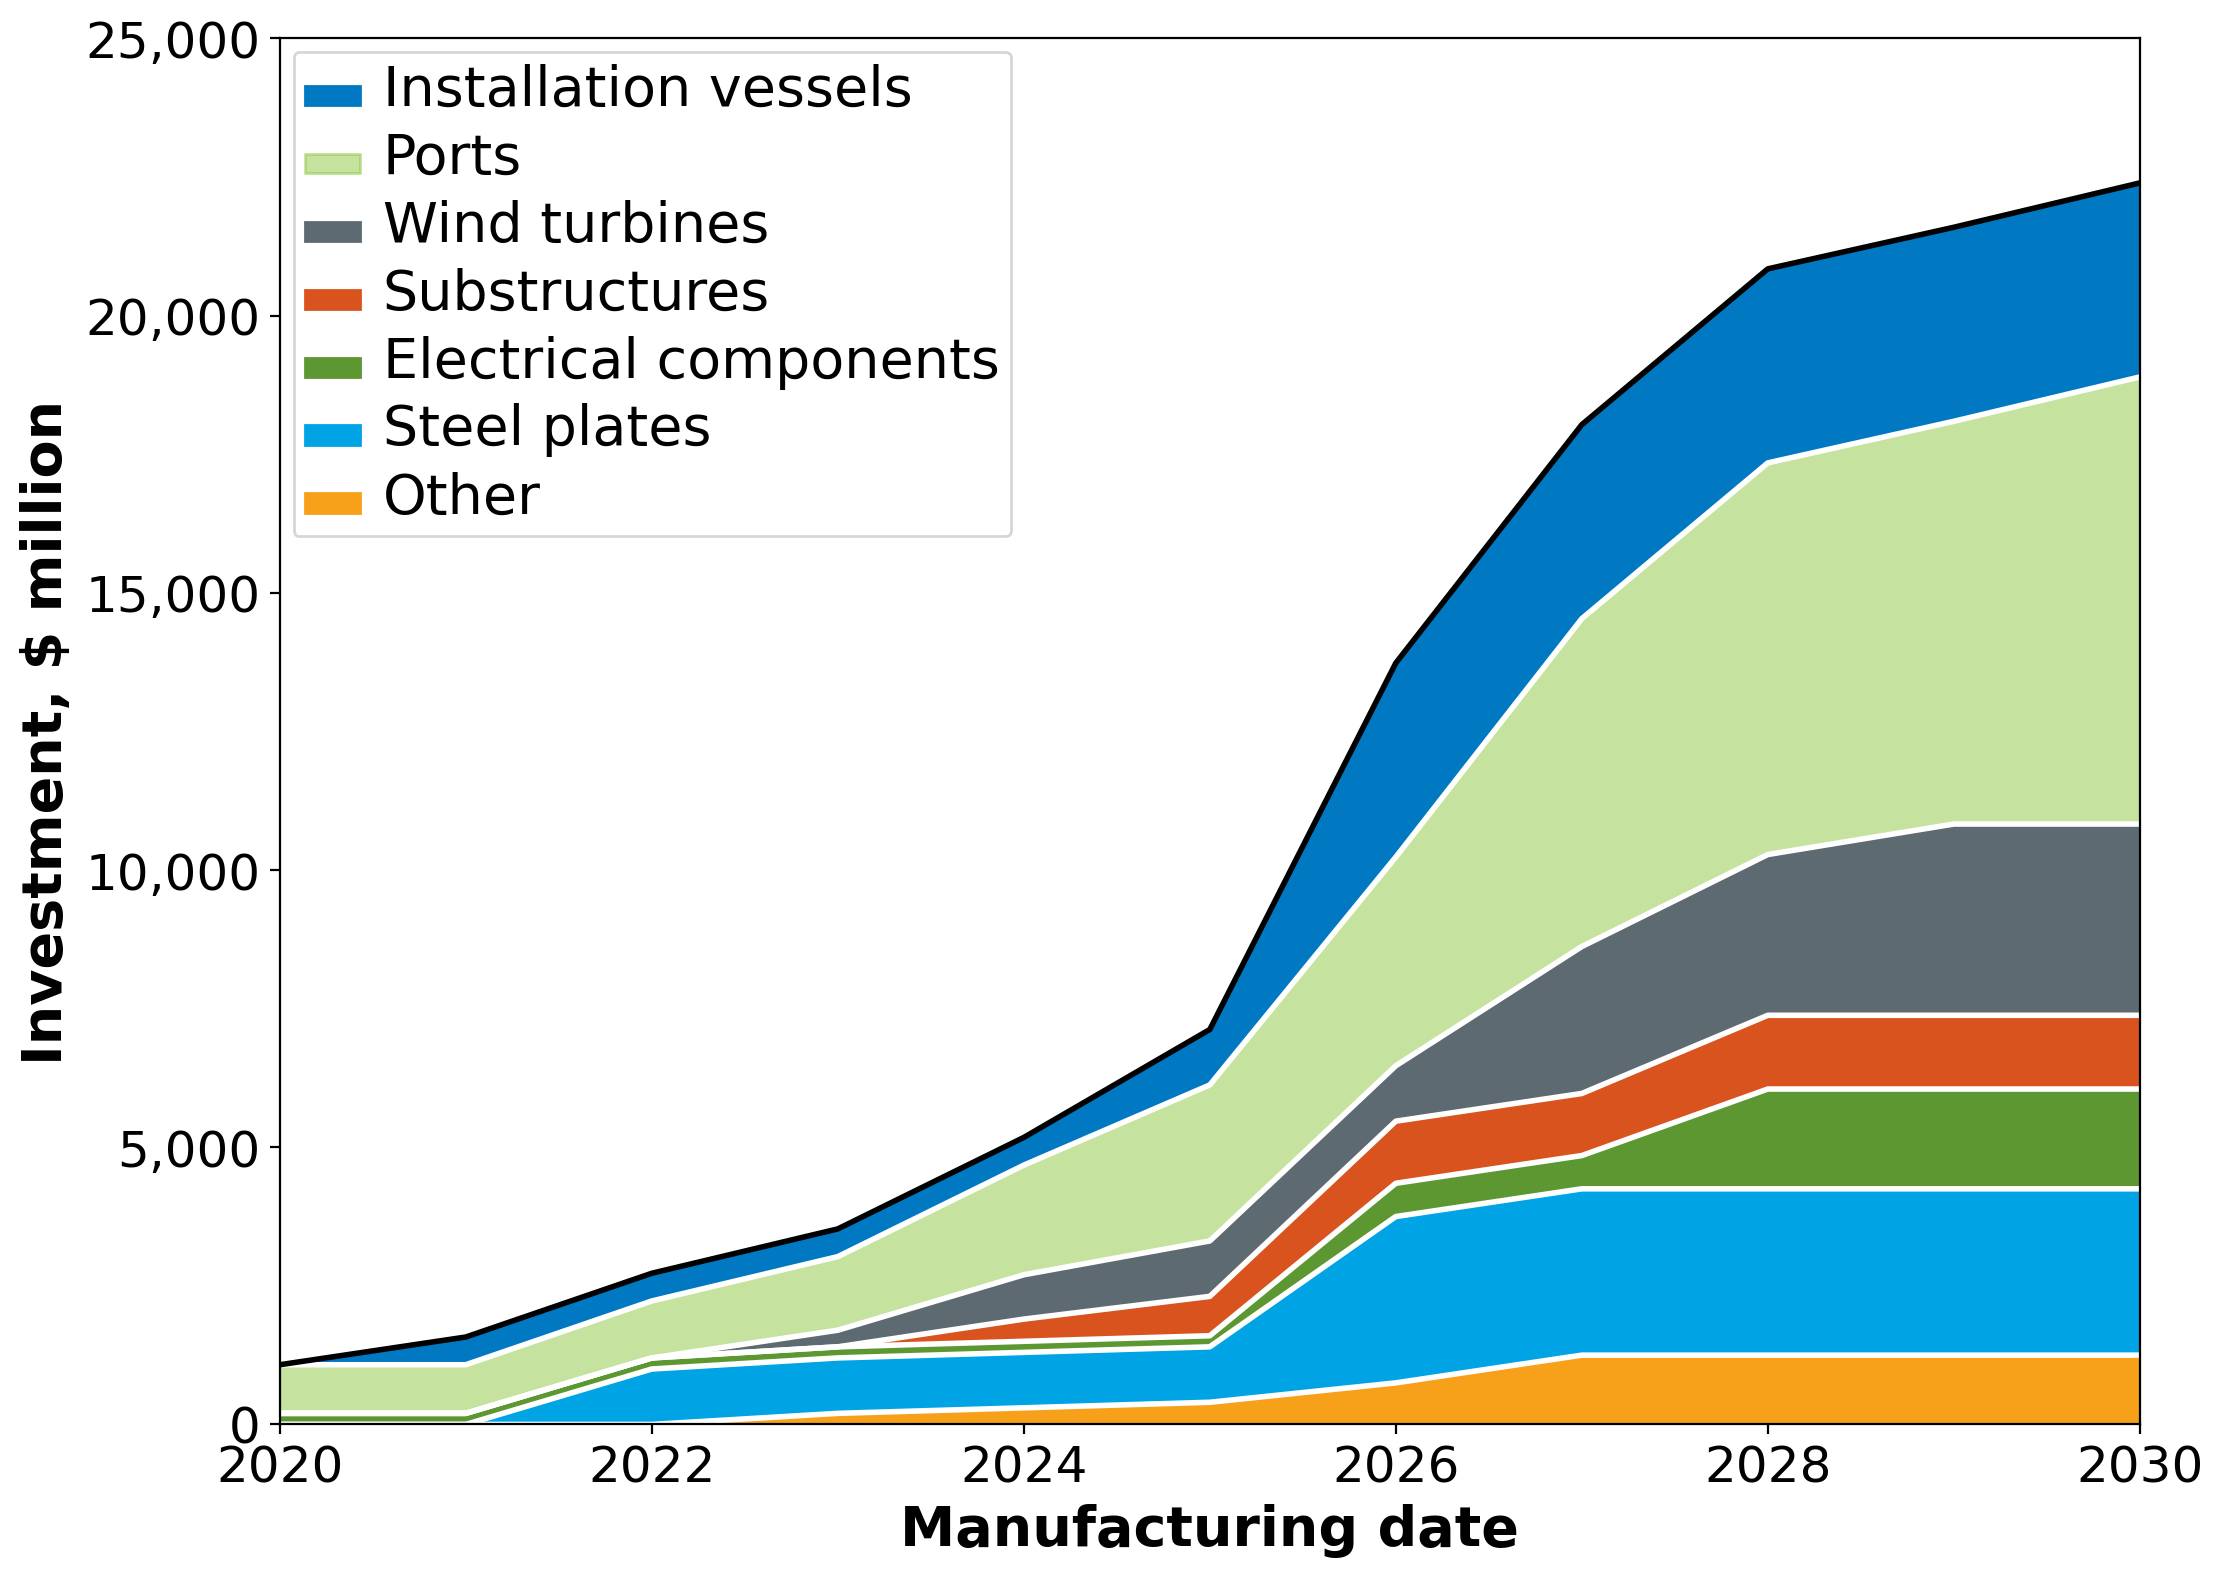
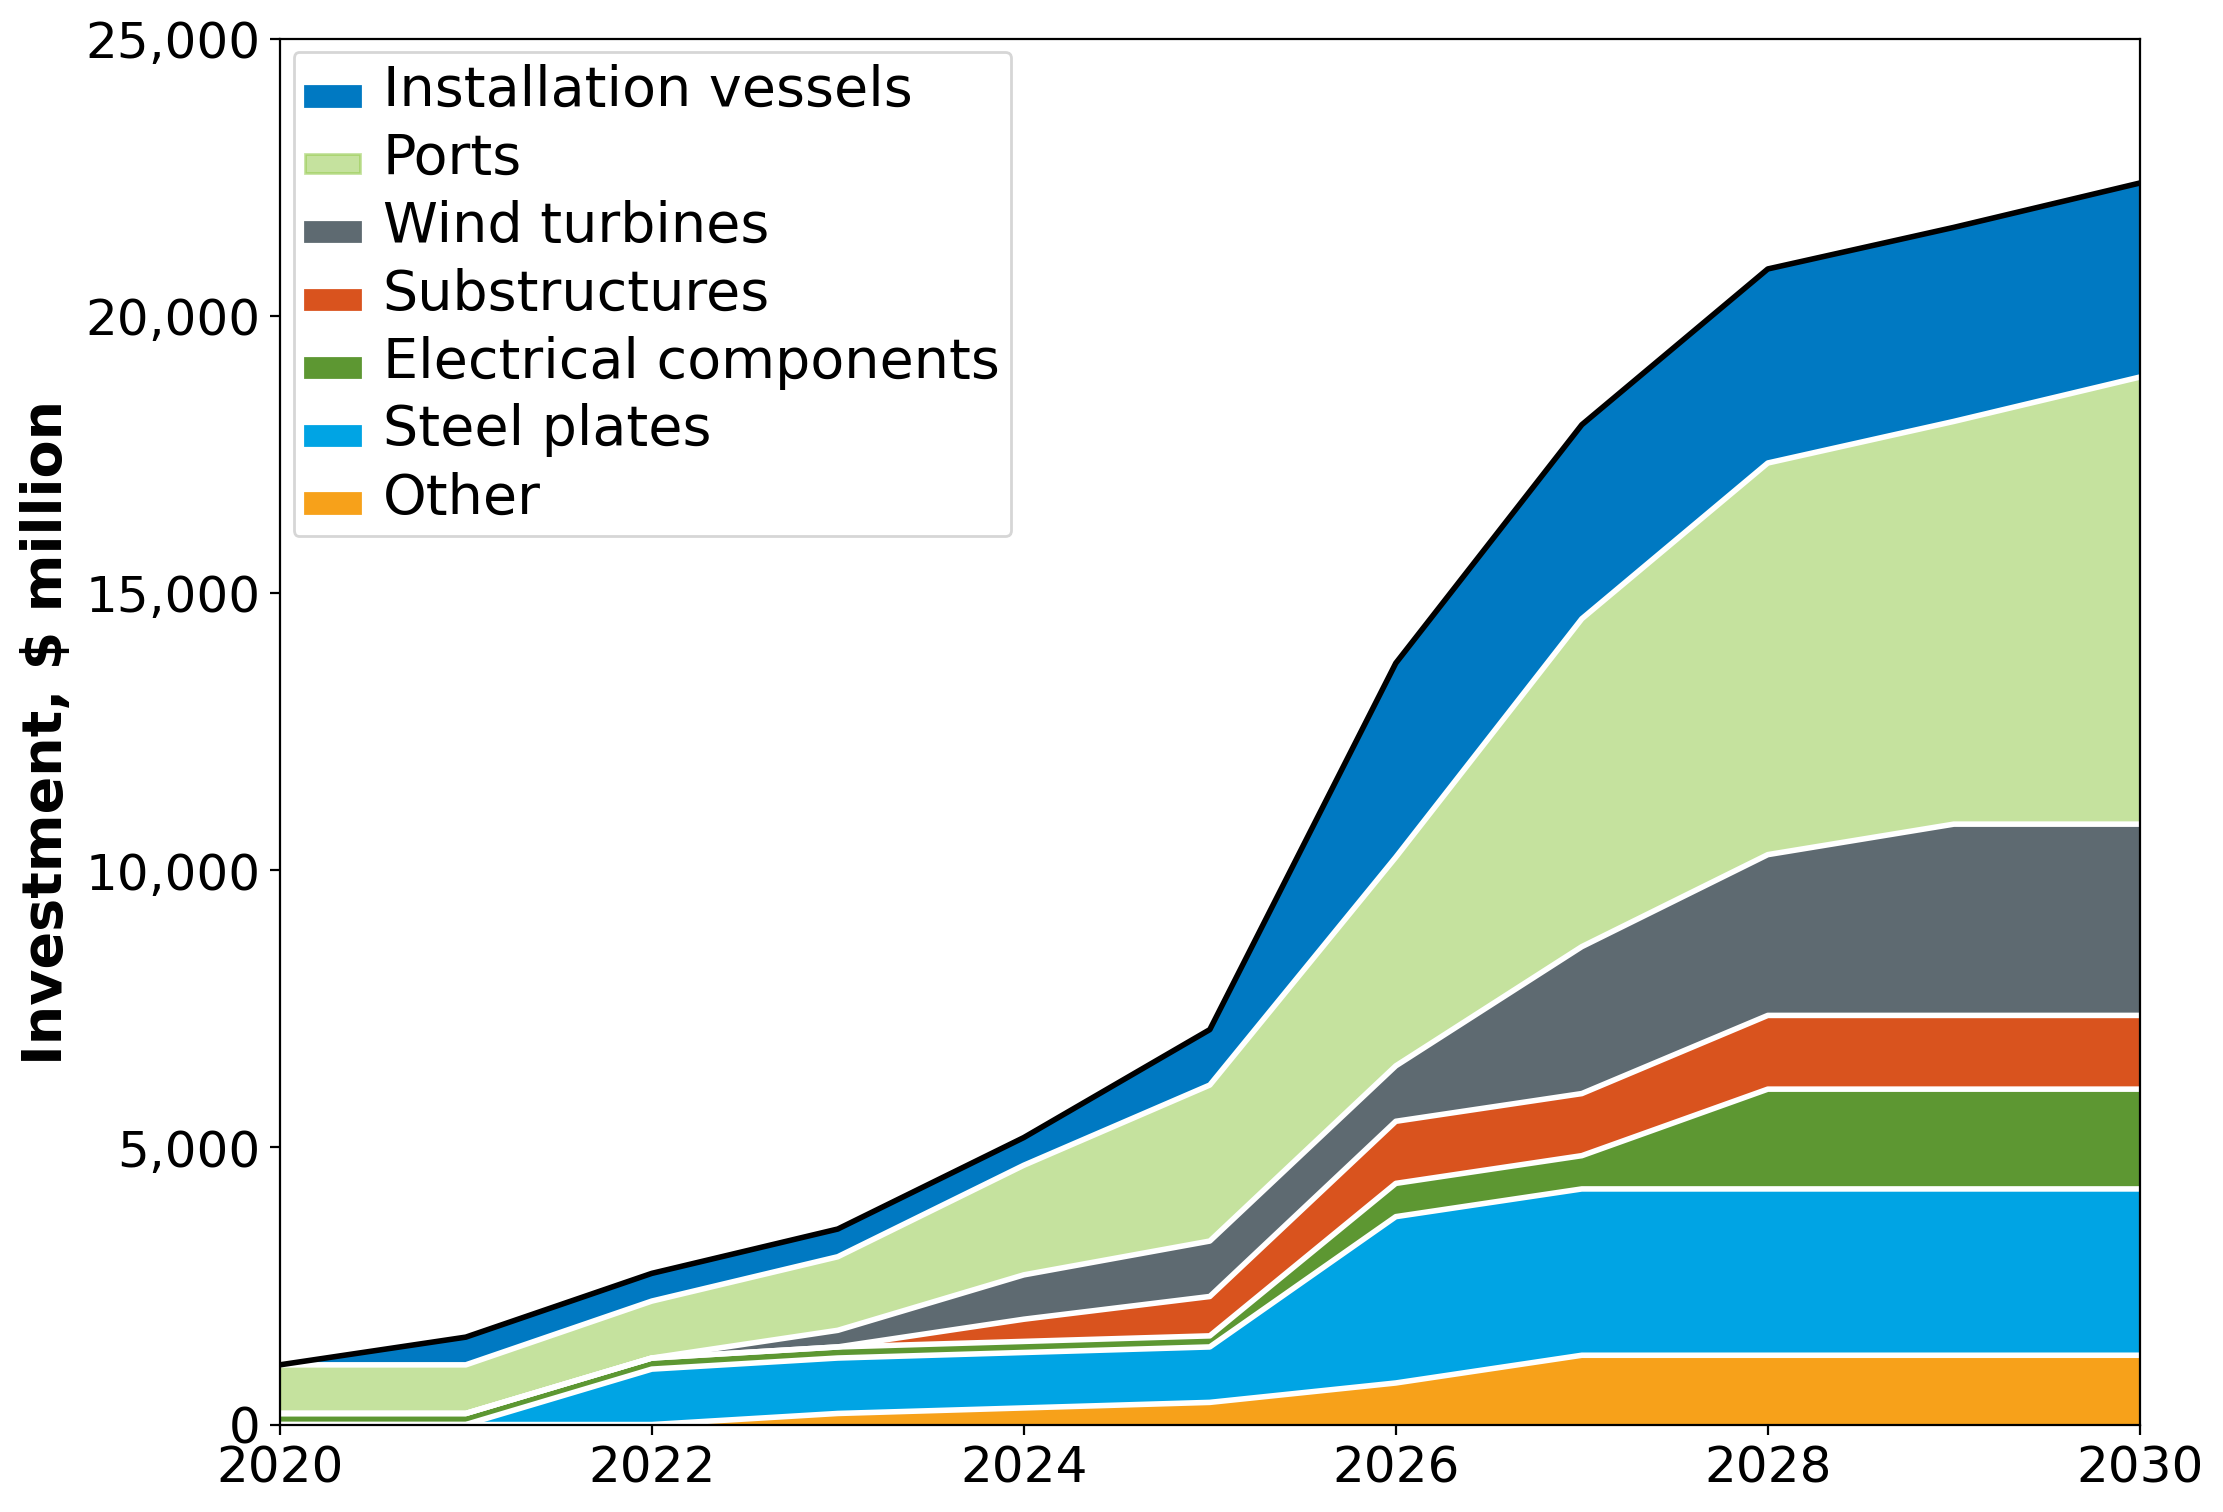
Added title to plot_num_facilitie

diff --git a/plot_routines.py b/plot_routines.py
@@ -272,7 +272,7 @@ def plot_cumulative(x, y1, y2, y3, y4, components, color_list, ylabel, fname=Non
             ax.plot(x, yPlot, 'w')
             ax.fill_between(x, list(yBase), list(yPlot), color=color_list[c], label=c)
             yBase = yPlot
-
+    partial_inv = pd.DataFrame({'Year': x, 'Investment': yBase})
     # Add ports
     yPorts = yBase + y3
     ax.fill_between(x, list(yBase), list(yPorts), color=color_list['Ports'], alpha=0.5, label='Ports')
@@ -283,6 +283,7 @@ def plot_cumulative(x, y1, y2, y3, y4, components, color_list, ylabel, fname=Non
     ax.plot(x, yVessels, 'k')
 
     total_inv = pd.DataFrame({'Year': x, 'Investment': yVessels})
+    print('Manufacturing supply chain investment (no ports/vessels) is: ', partial_inv)
     print('Cumulative supply chain investment is: ', total_inv)
 
     if ymax is not None:
@@ -291,7 +292,7 @@ def plot_cumulative(x, y1, y2, y3, y4, components, color_list, ylabel, fname=Non
     ax.set_xlim([2020,2030])
     # ax.set_xticklabels(components, rotation=90)
 
-    ax.set_xlabel('Manufacturing date')
+    # ax.set_xlabel('Date')
     ax.set_ylabel(ylabel)
     ax.get_yaxis().set_major_formatter(
         mpl.ticker.FuncFormatter(lambda x, p: format(int(x), ',')))
@@ -331,7 +332,7 @@ def plot_cumulative(x, y1, y2, y3, y4, components, color_list, ylabel, fname=Non
 
 
 
-def plot_num_facilities(components, y1, y2, color_list, fname=None):
+def plot_num_facilities(components, y1, y2, color_list, fname=None, title=None):
     """Plot the total number of required facilities per component"""
 
     announced = {}
@@ -363,6 +364,10 @@ def plot_num_facilities(components, y1, y2, color_list, fname=None):
     ax.set_ylabel('Number of facilities')
 
     ax.legend(loc='upper right')
+
+    if title:
+        ax.set_title(title, pad=20)
+
 
     if fname is not None:
         myformat(ax)

diff --git a/analysis.py b/analysis.py
@@ -121,7 +121,7 @@ def scenario_analysis(filepath_pipeline, filepath_ports, filepath_deploy, compon
     #
     # plot_cumulative(years, total_announced_jobs, total_scenario_jobs, components, color_list, ylabel='Direct manufacturing jobs, FTEs', fname='results/total_jobs', alternate_breakdown=job_breakdown)
     #
-    plot_num_facilities(components, announced, scenario, color_list, fname='results/num_facilities')
+    plot_num_facilities(components, announced, scenario, color_list, fname='results/num_facilities', title='A domestic offshore wind energy supply chain designed \nto meet the annual demand for major components in 2030 \nwould require at least 34 new manufacturing facilities')
 
     # Construction Gantt charts
     fname_gantt2 = 'results/' + plot_dir + '/overall_gantt'
